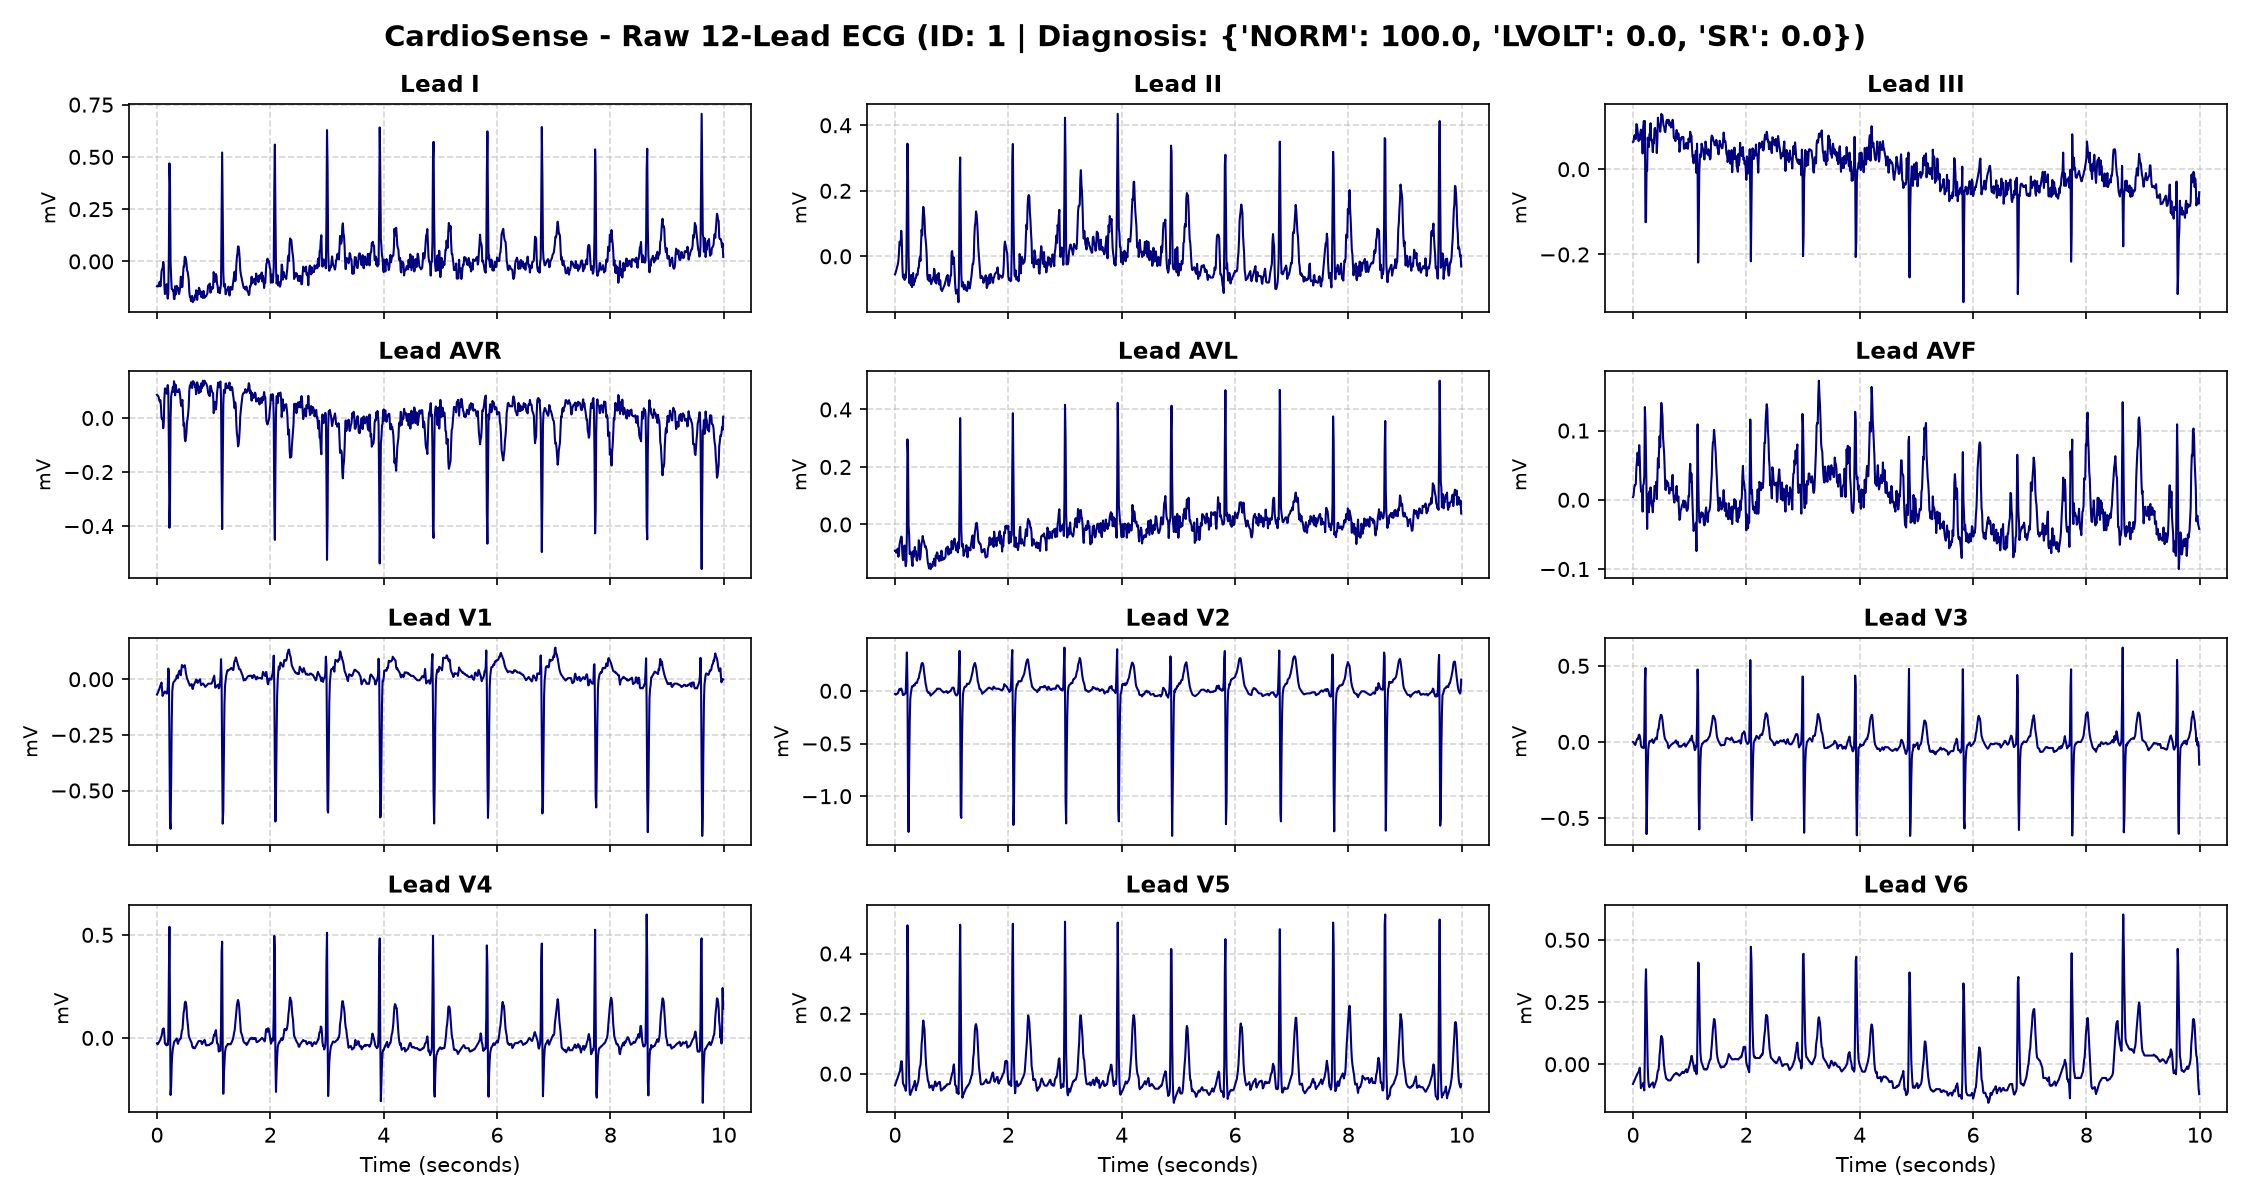
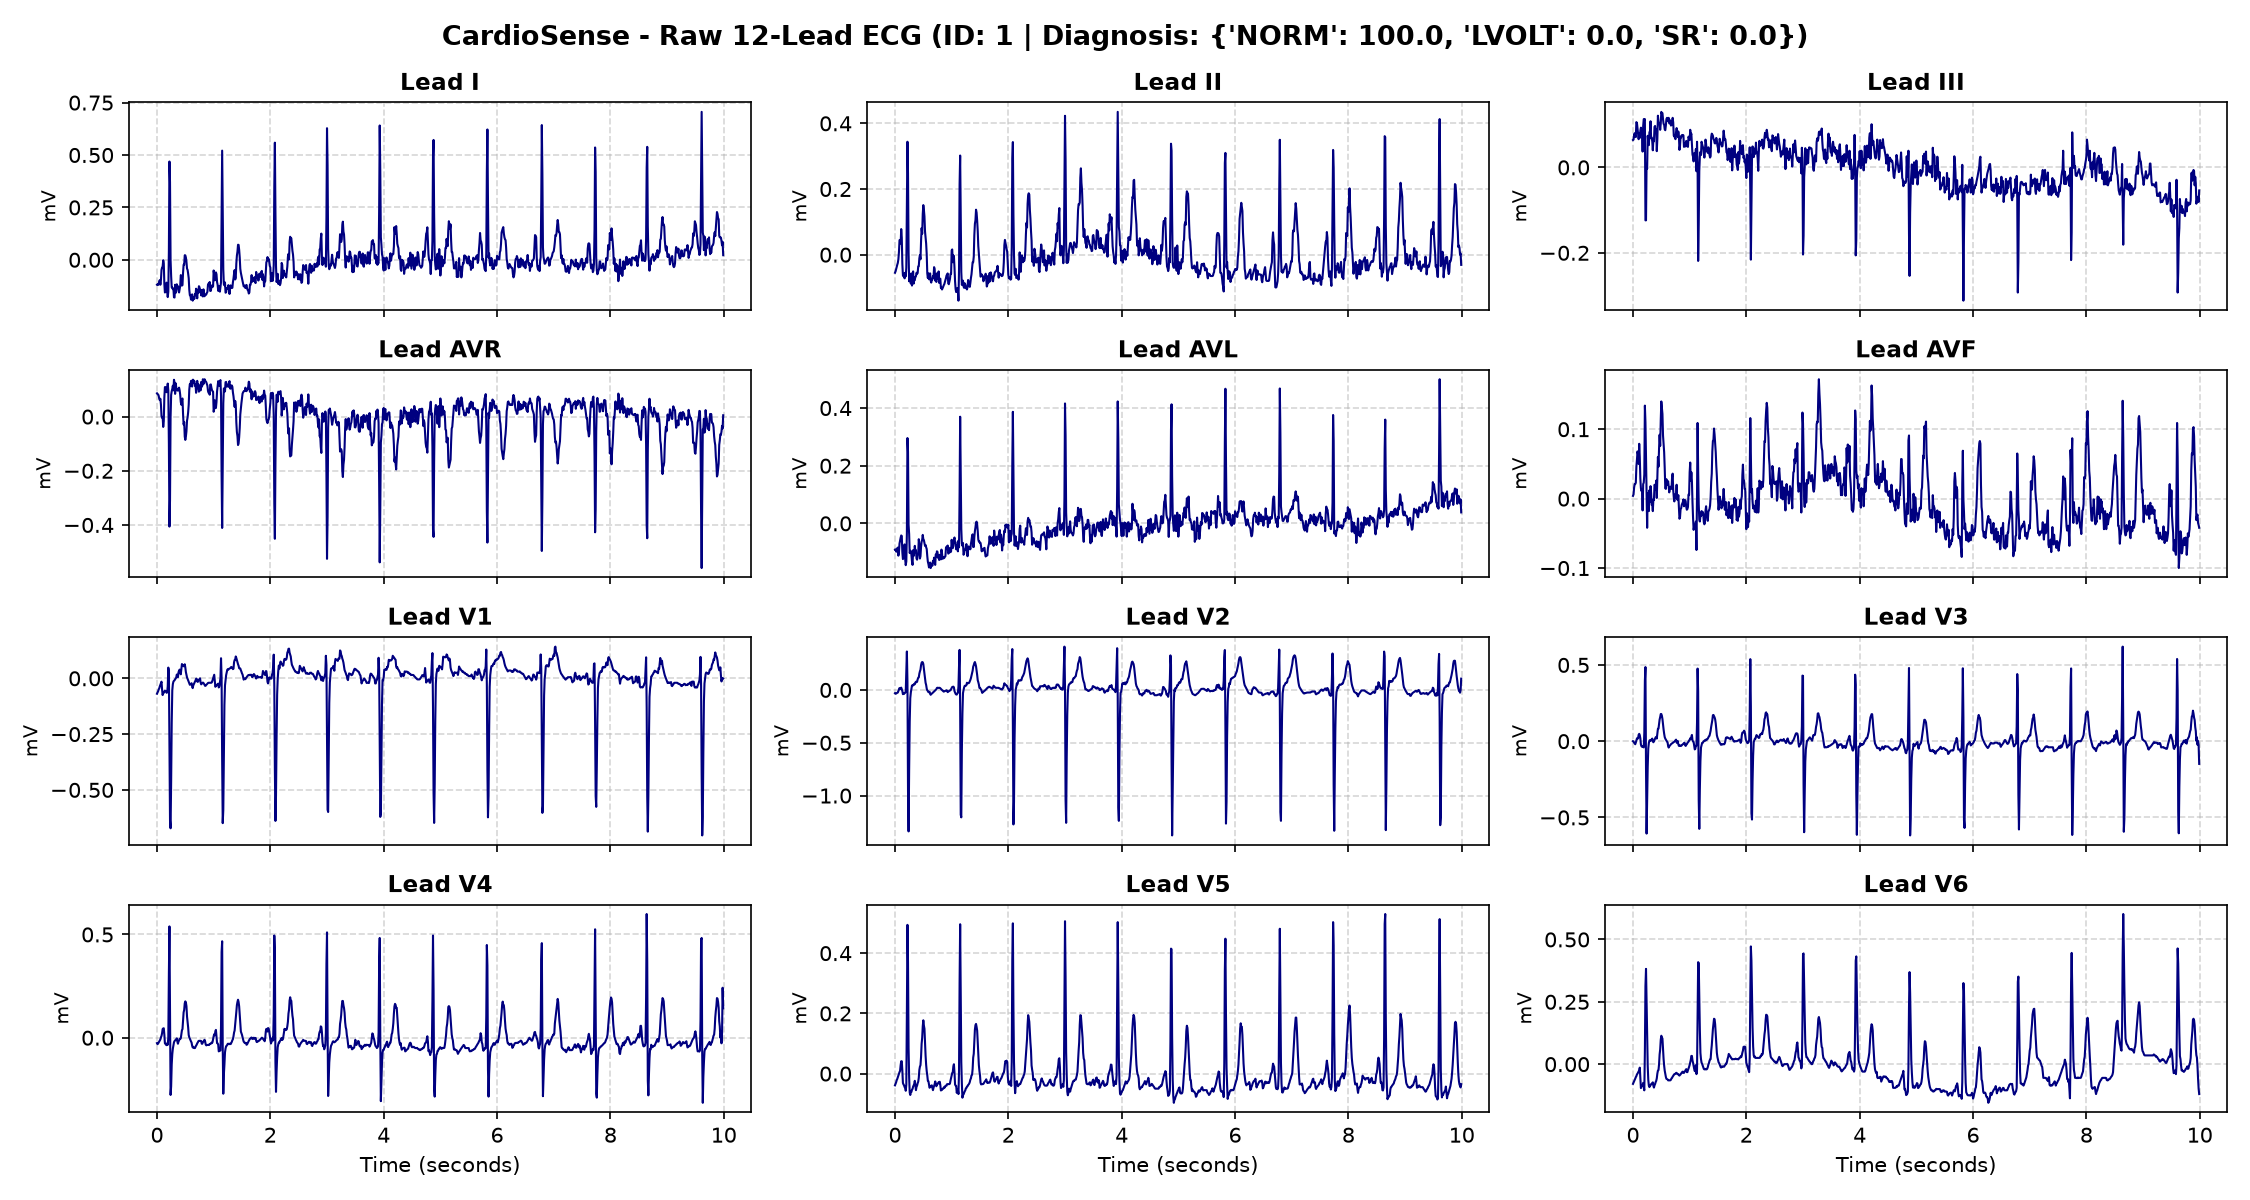
docs: align README with Fourth UDMI J-point standard and packaging

diff --git a/README.md b/README.md
@@ -19,7 +19,7 @@ However, real-world ECG analysis faces two major hurdles:
 1. **Noisy Signals**: Loose electrodes, patient shivering, and breathing drift produce artifacts that mimic heart attacks, causing false alarms and hospital overcrowding.
 2. **The "Black-Box" AI Dilemma**: Pure deep-learning models lack clinical interpretability. Clinicians cannot verify *why* a neural network triggered an alarm.
 
-**CardioSense bridges this gap** using a **dual-engine architecture**: pairing clinically certified cardiological measurements (ST elevation, J-point shifts, QRS duration, HRV) with raw deep waveform representations, gated by strict signal-quality checks.
+**CardioSense bridges this gap** using a **dual-engine architecture**: pairing clinically certified cardiological measurements (contiguous ST elevation at the J-point, QRS duration, HRV) with raw deep waveform representations, gated by strict signal-quality checks.
 
 ---
 
@@ -44,7 +44,7 @@ However, real-world ECG analysis faces two major hurdles:
          │  Engine A: Classical  │  Engine B: Deep Wave  │
          │  • R-Peak & HRV       │  • Multichannel 1D    │
          │  • Fiducial Landmark  │    ResNet / CNN       │
-         │  • ST Elevation @ J+60│  • Latent Repolar-    │
+         │  • ST Elevation @ J   │  • Latent Repolar-    │
          │  • QRS Duration       │    ization Dynamics   │
          └───────────┬───────────┴───────────┬───────────┘
                      │                       │
@@ -52,17 +52,18 @@ However, real-world ECG analysis faces two major hurdles:
                                  │
                                  ▼
         ┌─────────────────────────────────────────────────┐
-        │            2. Calibrated Risk Fusion            │
-        │  • Platt-Scaled Probability Calibration         │
-        │  • Explainability Layer (Lead & Segment XAI)    │
+        │         2. Risk Fusion & Guardrails             │
+        │  • Deterministic Fourth UDMI Contiguous Rules   │
+        │  • Age/Sex Precordial Cut-Points (V2-V3)        │
+        │  • Dual-Engine Probability Averaging            │
         └───────────────────────┬─────────────────────────┘
                                 │
                                 ▼
         ┌─────────────────────────────────────────────────┐
         │          3. Clinical Triage Interface           │
-        │  • Triage Routing: Routine | Review | Emergent  │
-        │  • Grounded LLM Clinical Summary (Guardrailed)  │
-        │  • Clinician Dashboard (Streamlit / FastAPI)    │
+        │  • Triage Routing: Routine | Review | Escalated │
+        │  • Auditable SBAR Clinical Note Generation      │
+        │  • Clinician Interface (FastAPI & Modern Web UI)│
         └─────────────────────────────────────────────────┘
 ```
 
@@ -78,7 +79,7 @@ However, real-world ECG analysis faces two major hurdles:
 ### 2. Deterministic Cardiological Biomarkers
 - **Zero-Phase Filtering (`filtfilt`)**: Eliminates respiration baseline wander with **0.0 ms phase delay**, preserving true PR and QT intervals.
 - **R-Peak Detector**: Derivative-squared energy transformation with dynamic thresholding and physiological refractory lockout.
-- **ST-Segment Deviation**: Pinpoints the **J-point** and quantifies microvolt shifts at **$J + 60\text{ ms}$** across all 12 leads relative to the isoelectric PR baseline (essential for STEMI criteria).
+- **ST-Segment Deviation**: Pinpoints the **J-point** relative to the flat PR isoelectric baseline and enforces **contiguous-lead criteria** with age/sex specific cut-points from the Fourth Universal Definition of Myocardial Infarction.
 
 ### 3. Dual-Model Decision Support
 - Combines interpretable clinical rules (Random Forest with Platt calibration, **0.853 ROC-AUC**) with end-to-end 1D convolutional neural networks directly on raw multichannel voltages (**0.860 ROC-AUC**, **92.6% Specificity**).
@@ -93,20 +94,21 @@ However, real-world ECG analysis faces two major hurdles:
 ```text
 HT-project/
 ├── data/
-│   ├── raw/             # Local PTB-XL database metadata
+│   ├── raw/             # Local PTB-XL database metadata (gitignored)
 │   ├── samples/         # Sample 100 Hz 12-lead records
-│   ├── cohort/          # Balanced 300-patient training cohort
+│   ├── cohort/          # Balanced 300-patient training cohort (gitignored)
 │   └── processed/       # Tabular extracted clinical features CSV
 ├── src/
 │   ├── data/            # PTB-XL automated ingestion & cohort downloader
 │   ├── dsp/             # Zero-phase filters & Signal Quality Index (SQI)
 │   ├── features/        # R-peak detector, HRV, J-point ST landmarking, batch extractor
 │   ├── models/          # Interpretable Random Forest & PyTorch 1D-CNN
-│   └── triage/          # Risk fusion & explainability (XAI)
-├── tests/               # Visual verification & unit tests
+│   └── triage/          # Risk fusion, lead geometry, and clinical triage rules
+├── tests/               # Unit, visual, and guardrail regression test suite
 ├── docs/
 │   ├── ENGINEERING_LOG.md  # Detailed clinical lab journal & verification data
-│   └── figures/            # Clinical verification plots (Figures 01 to 08)
+│   └── figures/            # Clinical verification plots (Figures 01 to 09)
+├── pyproject.toml       # Package setup & dependency management
 ├── requirements.txt     # Python dependencies
 └── README.md
 ```
@@ -127,25 +129,31 @@ cd HT-project
 # Linux/macOS:
 source .venv/bin/activate
 
-# Install dependencies
-pip install -r requirements.txt
+# Install package in editable mode with development/test dependencies
+pip install -e ".[dev]"
 ```
 
 ### 2. Run Verification Tests
 ```bash
-# 1. Inspect raw 12-lead waveforms
+# 1. Run unit test suite (Signal processing filters and deterministic rules)
+pytest tests/test_triage_rules.py tests/test_filters_unit.py -v
+
+# 2. Run 29-assertion clinical guardrail test
+python tests/test_triage.py
+
+# 3. Inspect raw 12-lead waveforms
 python tests/test_inspect_ecg.py
 
-# 2. Verify zero-phase baseline filter
+# 4. Verify zero-phase baseline filter
 python tests/test_filters.py
 
-# 3. Test R-peak detector and HRV metrics
+# 5. Test R-peak detector and HRV metrics
 python tests/test_r_peaks.py
 
-# 4. Run Signal Quality Index (SQI) checks
+# 6. Run Signal Quality Index (SQI) checks
 python tests/test_sqi.py
 
-# 5. Run fiducial landmarking and ST analysis
+# 7. Run fiducial landmarking and ST analysis
 python tests/test_fiducials.py
 ```
 
